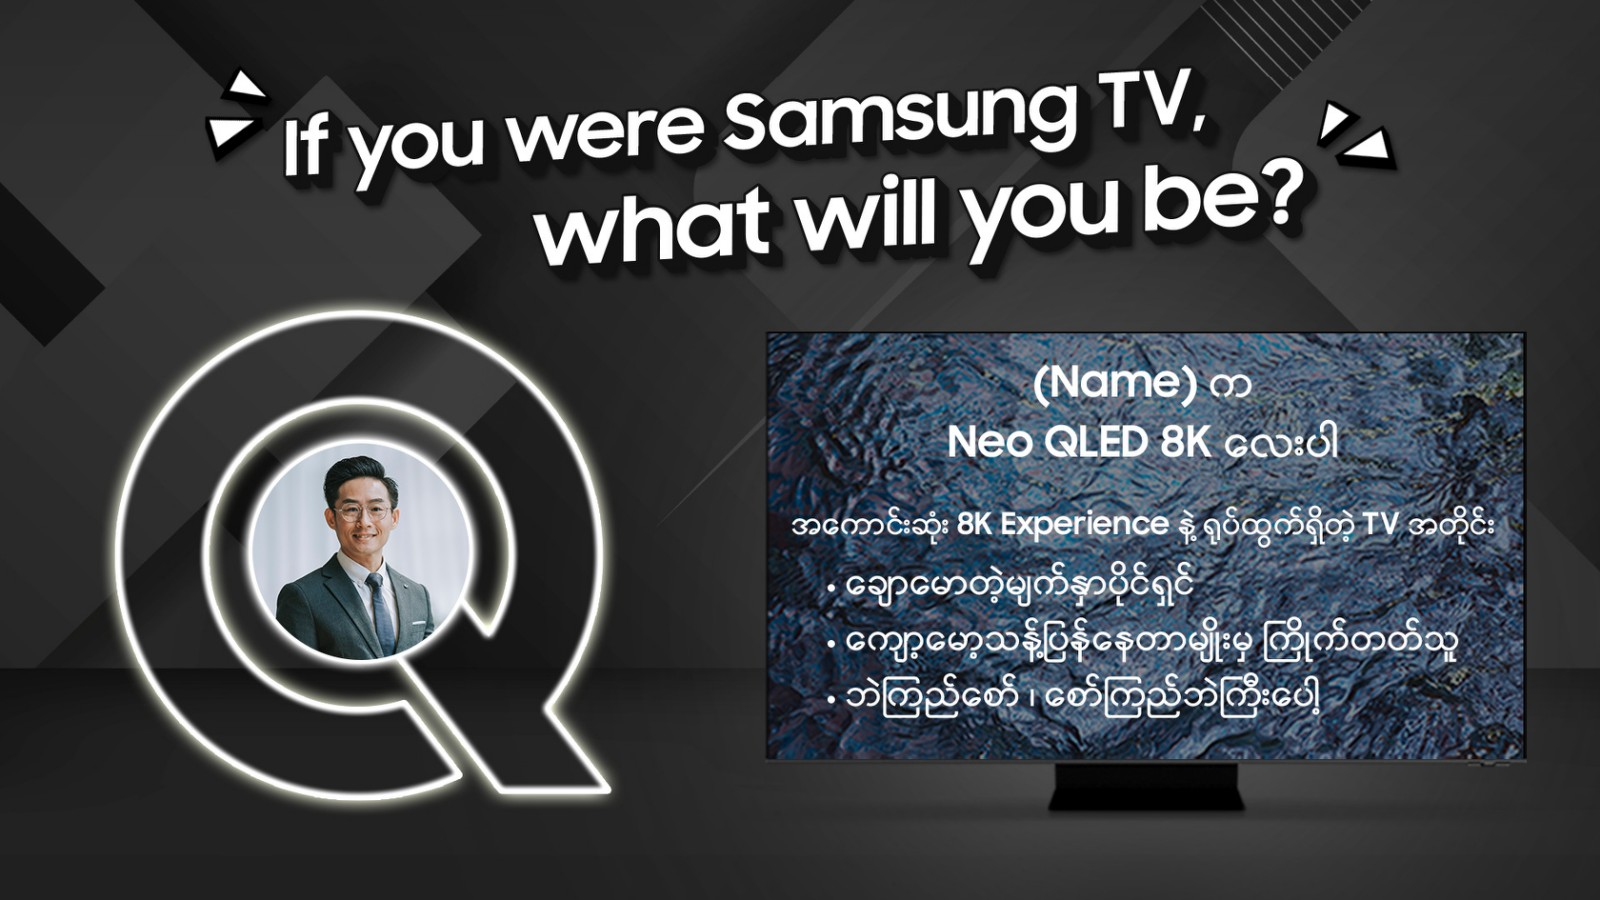
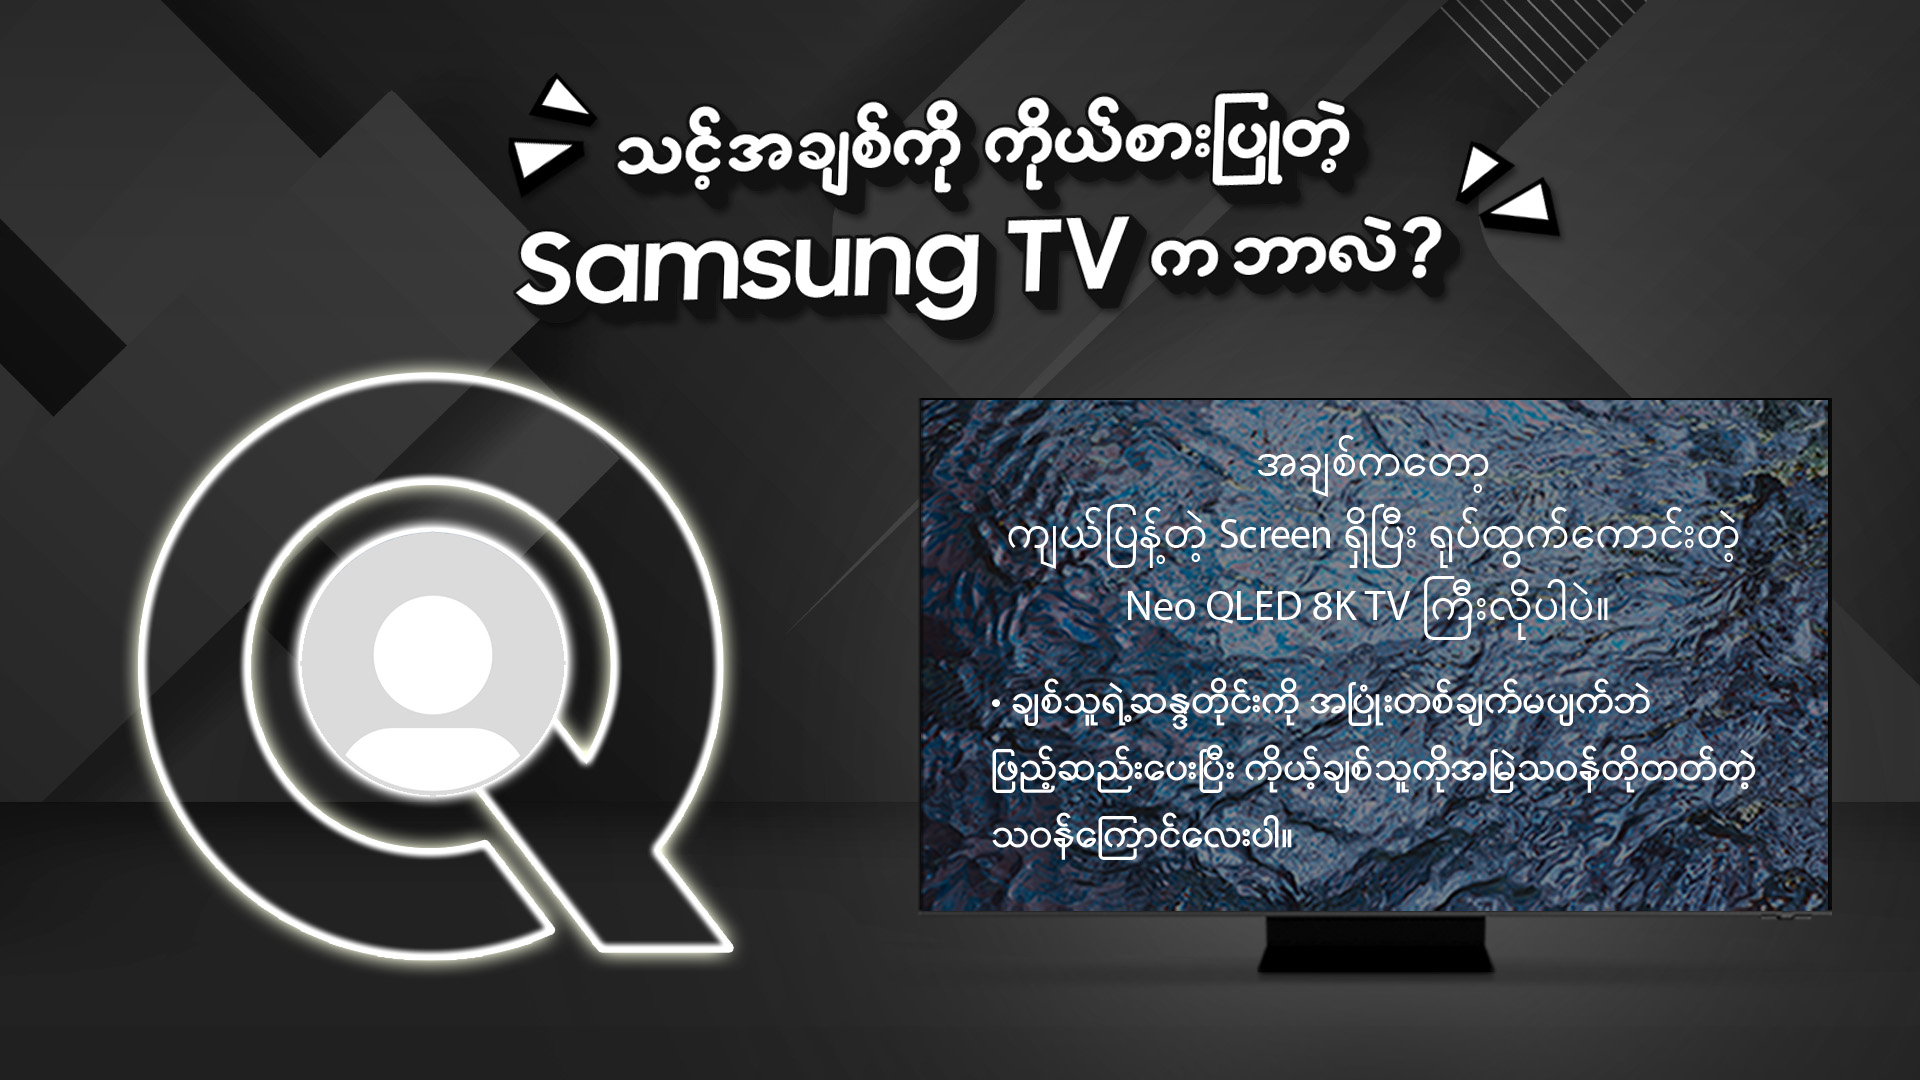
Finish Mulitple TV

Changed region(s): [[0.5, 0.4044, 0.9375, 0.8089], [0.125, 0.0622, 0.875, 0.3111], [0.1562, 0.4978, 0.2812, 0.7467]]

diff --git a/app/Http/Controllers/FacebookController.php b/app/Http/Controllers/FacebookController.php
@@ -157,11 +157,11 @@ class FacebookController extends Controller
 
             // create new image instance
             $avatarImage = $imageManager->make($avatarContents);
-            // $avatarMask = $imageManager->make(public_path('samsung_support_photos/mask.png'));
+            $avatarMask = $imageManager->make(public_path('samsung_support_photos/mask.png'));
 
             // // fit
-            // $avatarImage->fit(220, 220);
-            // $avatarImage->mask($avatarMask, false);
+            $avatarImage->fit(220, 220);
+            $avatarImage->mask($avatarMask, true);
 
             $data = config('samsung');
             $random = rand(0, count($data) - 1);
@@ -223,7 +223,7 @@ class FacebookController extends Controller
                 });
             }
 
-            $backgroundImage->save(public_path() . '/samsung_tv_photos/' . $user->getId() . ".jpg");
+            $backgroundImage->save(storage_path() . '/samsung_tv_photos/' . $user->getId() . ".jpg");
 
             return redirect(route('samsung-tv', ['id' => $user->getId()]));
         } catch (Exception $e) {
